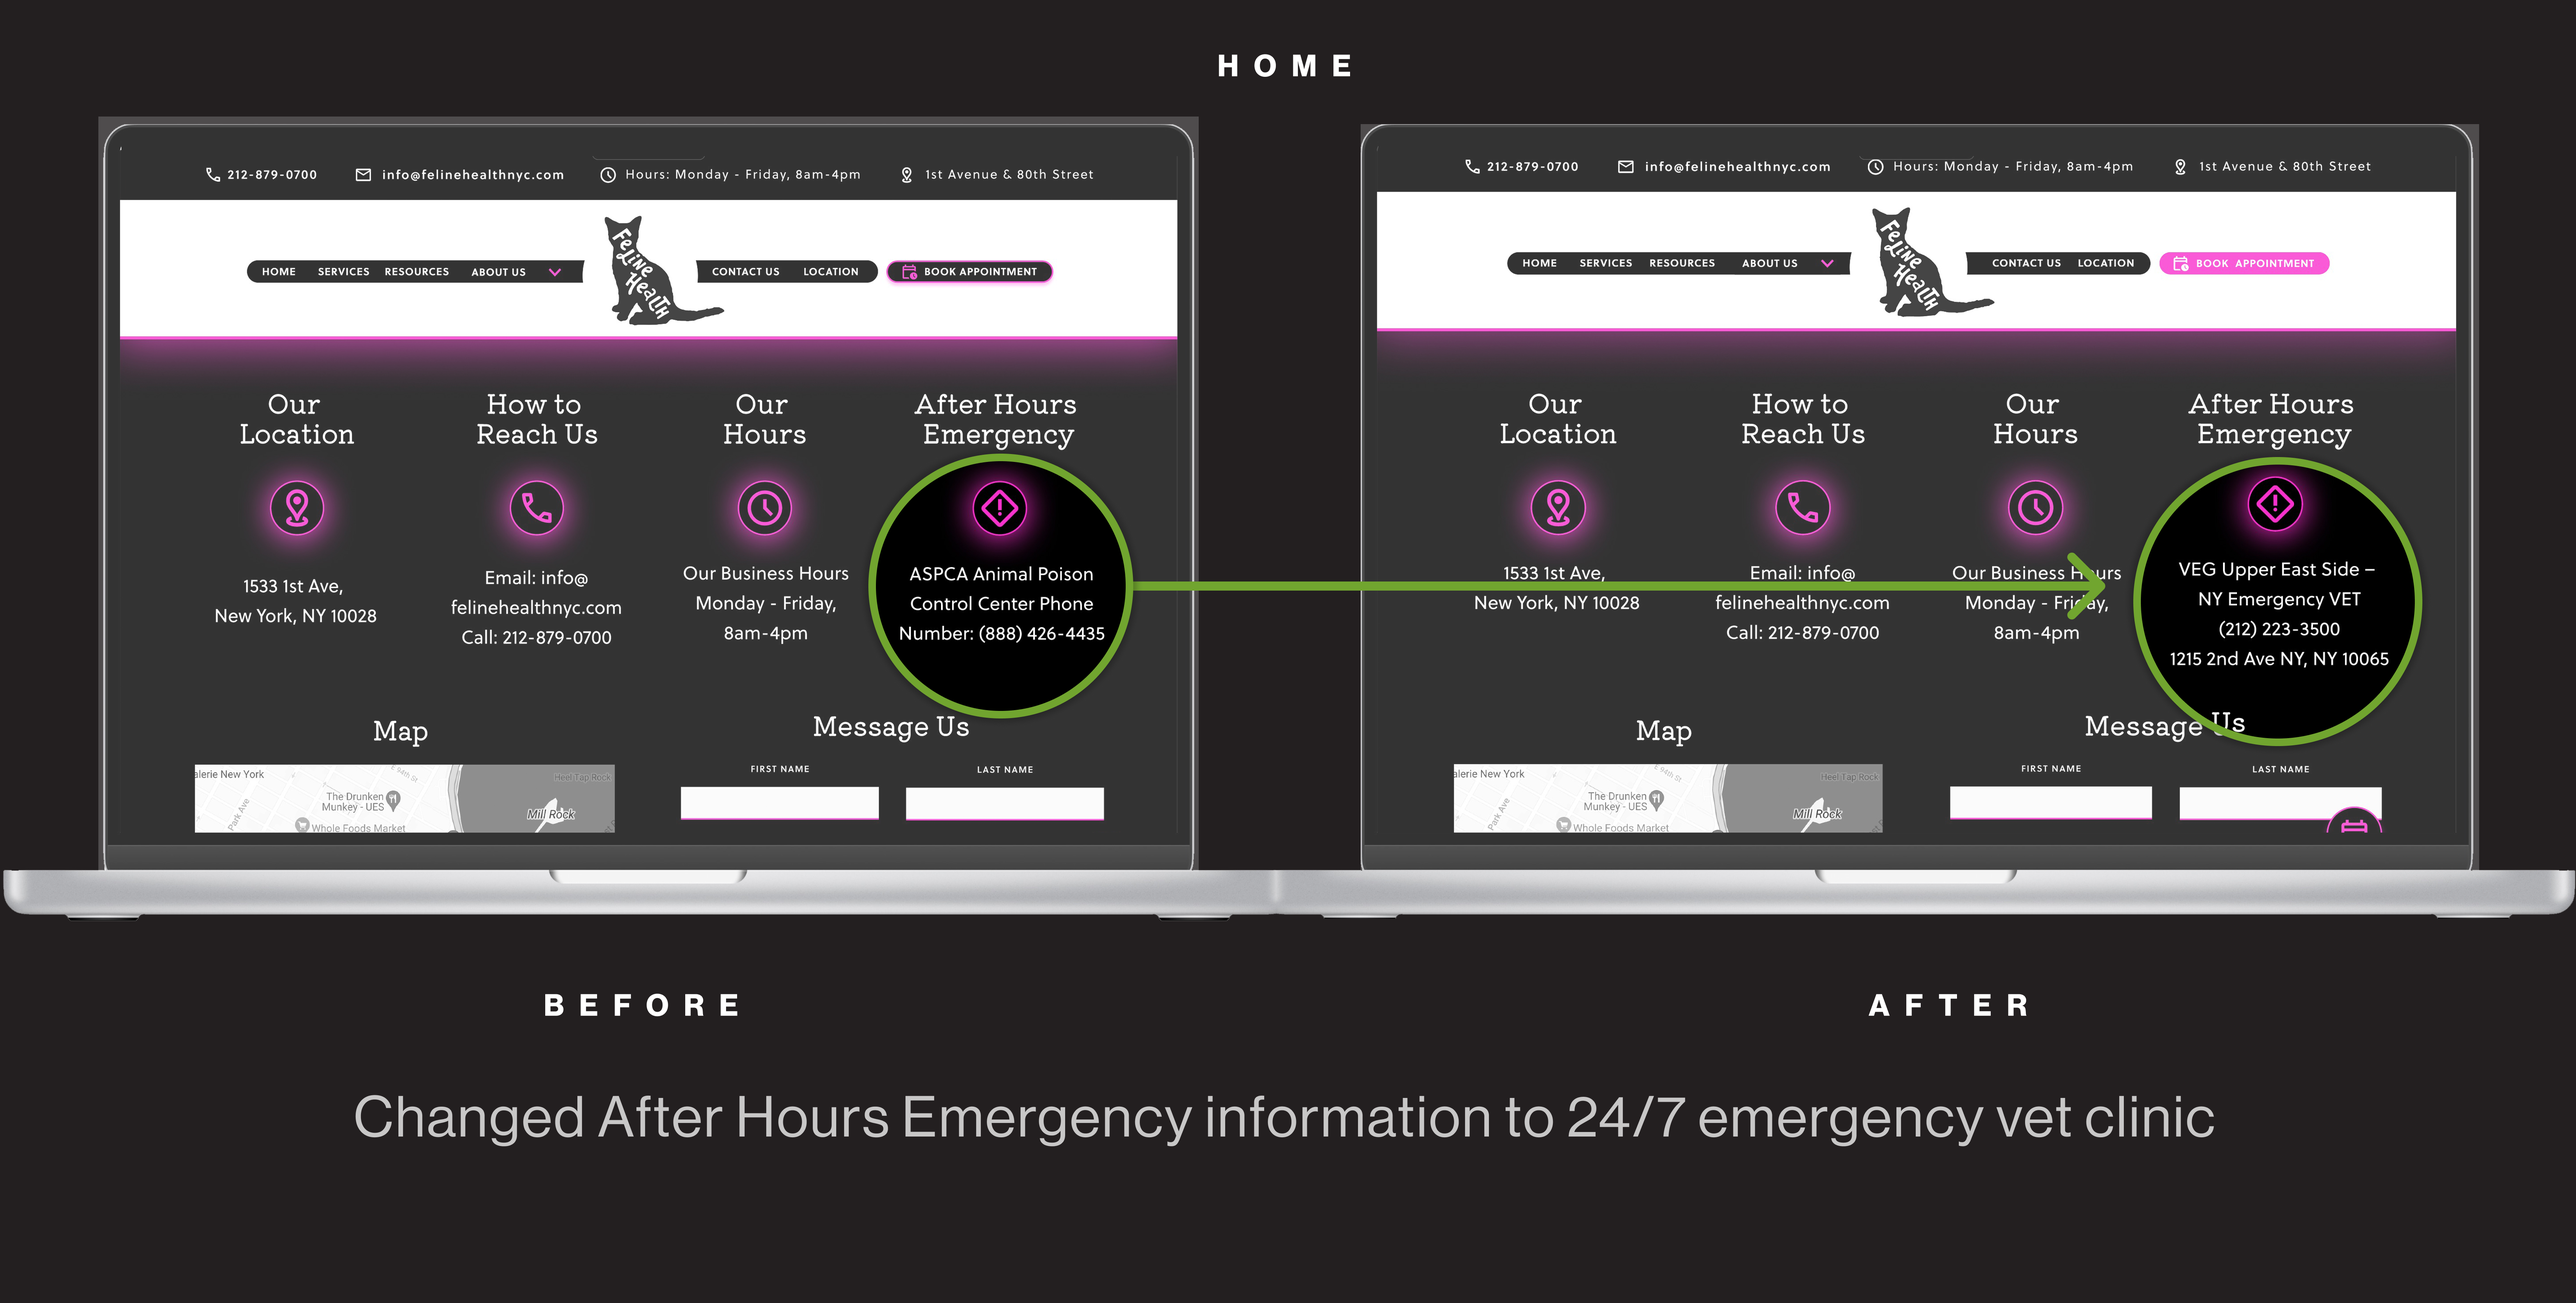
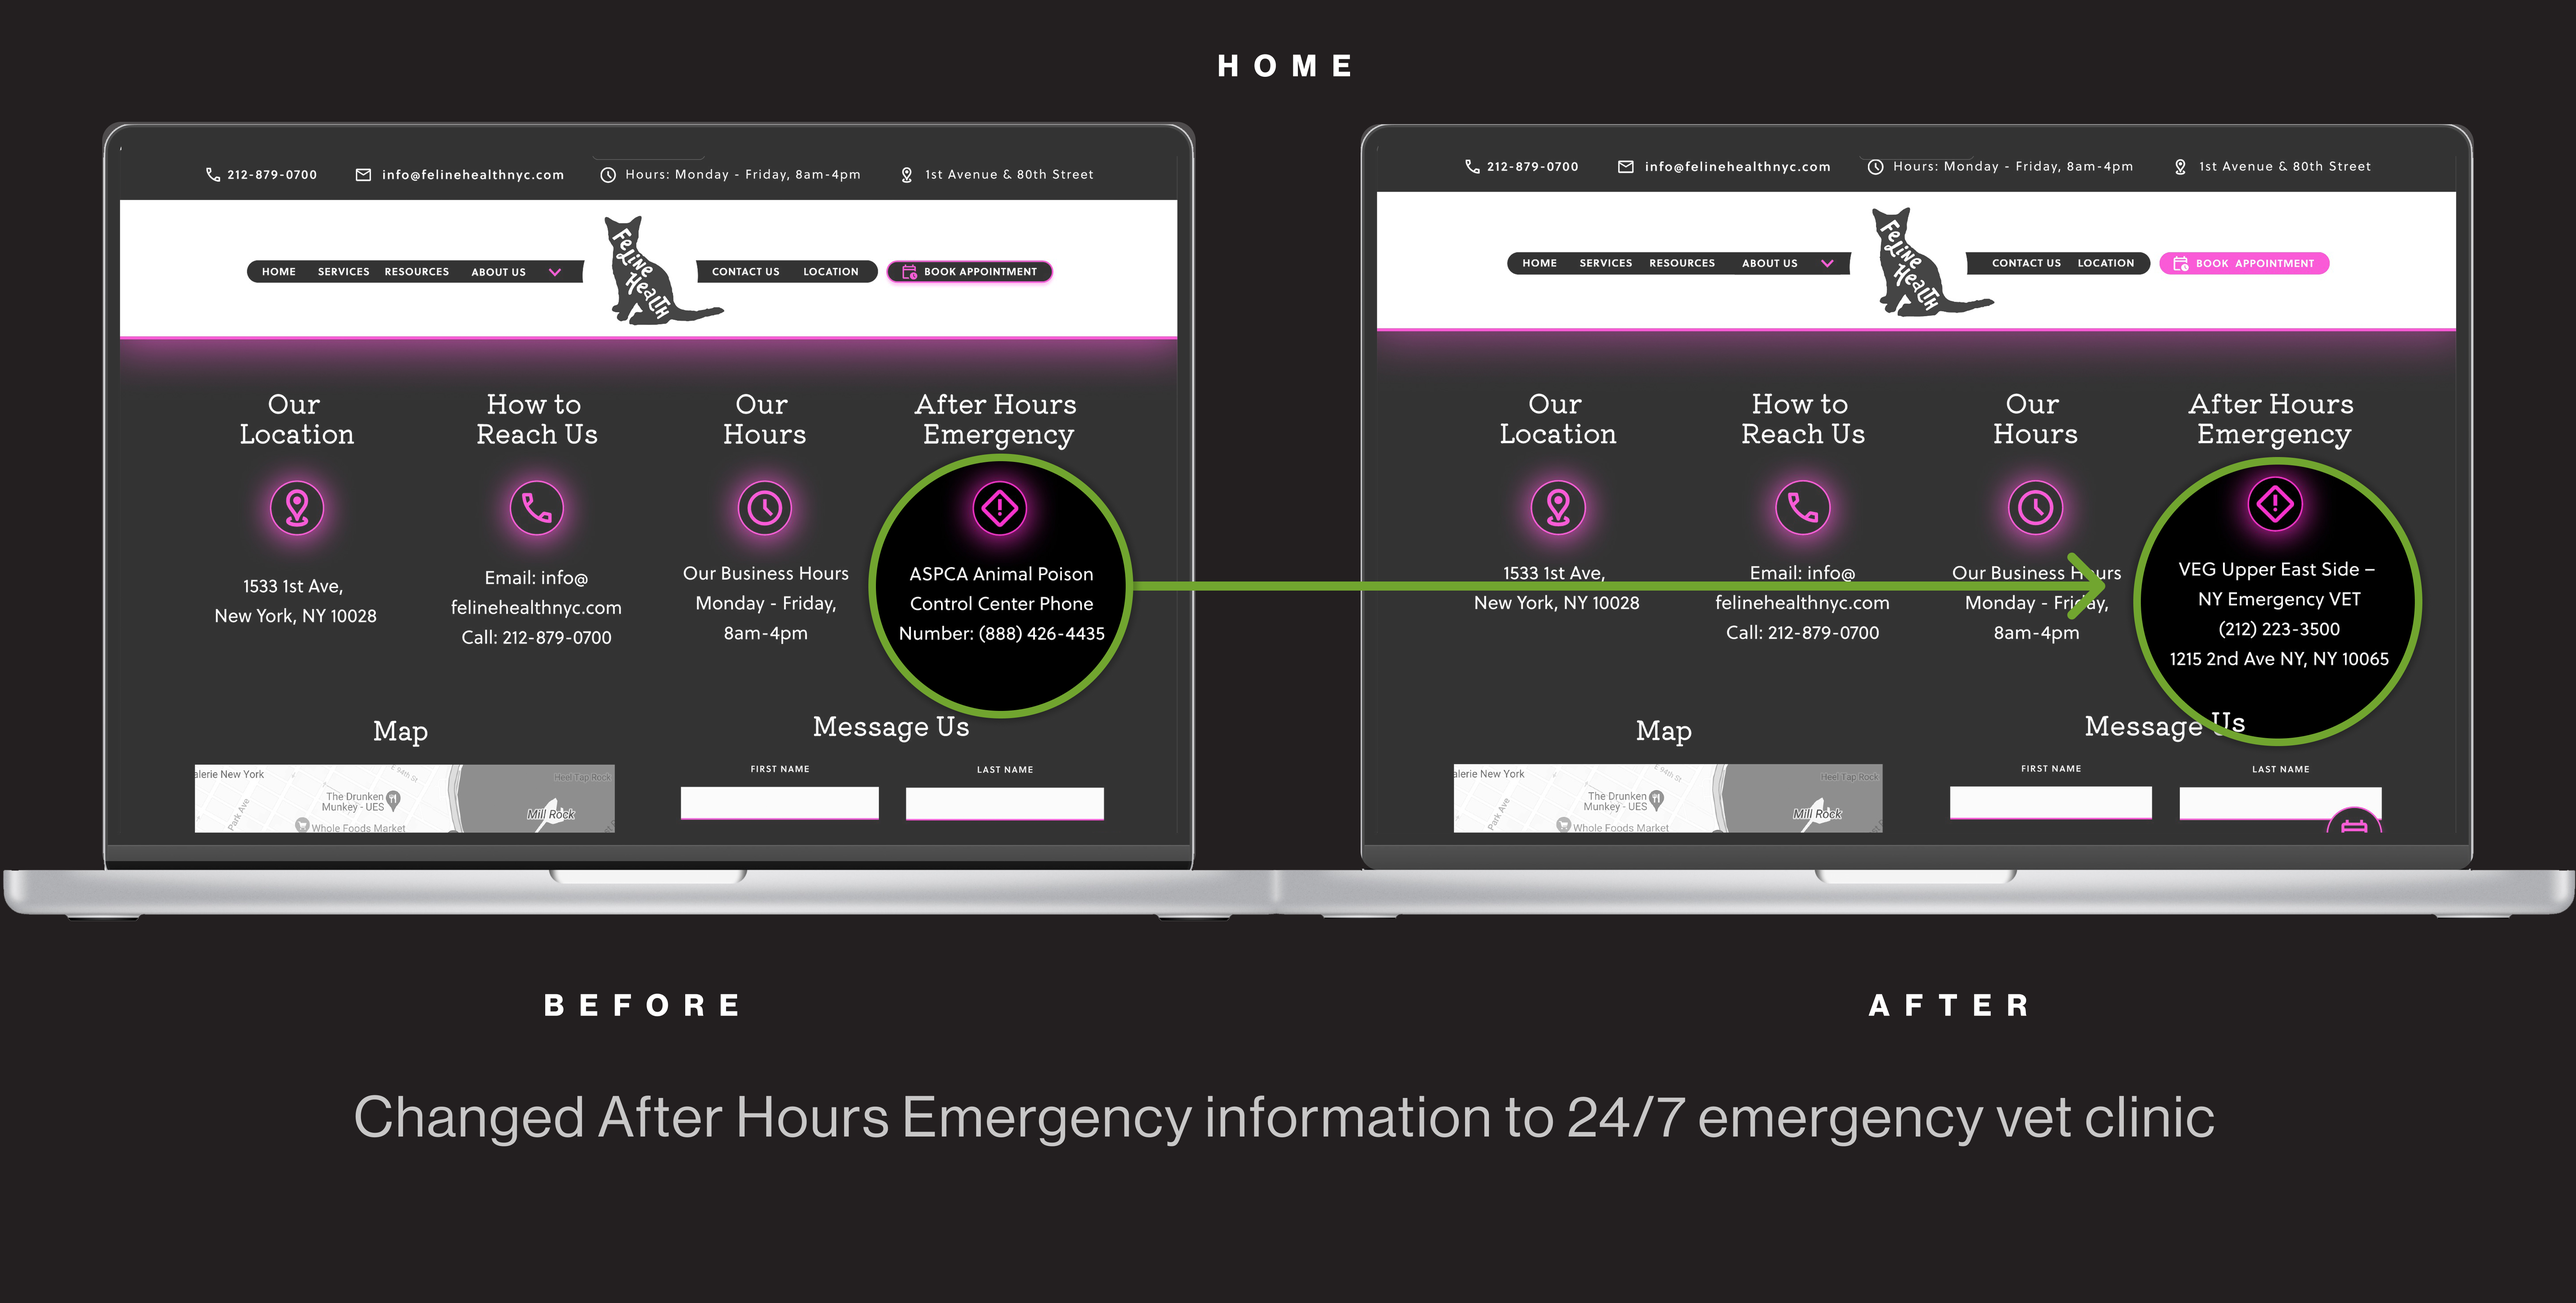
fh desktop done

Changed region(s): [[0.0311, 0.6524, 0.4671, 0.6835], [0.0623, 0.0621, 0.4671, 0.0932]]

diff --git a/src/components/Fh/TestingFh.js b/src/components/Fh/TestingFh.js
@@ -35,16 +35,6 @@ export const TestingFh = () => {
           <div className='ButtonContainer'>
             <div className='Button enlarge'>iterations desktop</div>
           </div>
-          {/* <picture>
-            <source media='(max-width: 479px)' srcSet={desktop_home} />
-            <source media='(min-width: 480px)' srcSet={desktop_homesm} />
-            <img
-              className='competitive fh_desktop'
-              src={desktop_homesm}
-              alt='Affinity map'
-              loading='lazy'
-            />
-          </picture> */}
           <picture>
             <source media='(max-width: 479px)' srcSet={desktop_homebig} />
             <source media='(max-width: 768px)' srcSet={desktop_home} />
@@ -56,16 +46,6 @@ export const TestingFh = () => {
               loading='lazy'
             />
           </picture>
-          {/* <picture>
-            <source media='(max-width: 479px)' srcSet={desktop_hours} />
-            <source media='(min-width: 480px)' srcSet={desktop_hourssm} />
-            <img
-              className='competitive fh_desktop'
-              src={desktop_hourssm}
-              alt='Affinity map'
-              loading='lazy'
-            />
-          </picture> */}
           <picture>
             <source media='(max-width: 479px)' srcSet={desktop_hours_big} />
             <source media='(max-width: 768px)' srcSet={desktop_hours} />
@@ -82,7 +62,7 @@ export const TestingFh = () => {
             <source media='(max-width: 768px)' srcSet={desktop_appt1} />
             <source media='(min-width: 480px)' srcSet={desktop_apptsm} />
             <img
-              className='competitive fh_desktop'
+              className='competitive fh_desktop appt'
               src={desktop_apptsm}
               alt='Affinity map'
               loading='lazy'

diff --git a/src/components/ReusableComponents.css b/src/components/ReusableComponents.css
@@ -138,6 +138,9 @@ li.smHed {
 .ButtonContainer.ideate {
   width: 95rem
 }
+.ButtonContainer.design_fh, .ButtonContainer.design_fh.first{
+  margin-top: 0
+}
 
 
 
@@ -219,8 +222,16 @@ button {
   margin: auto;
   margin-top: -4.8rem;
 }
+.competitive.affinity_fh {
+  margin-bottom: -1rem
+}
 .competitive.fh_desktop{
-  width:95rem
+  width:95rem;
+  margin-top:0rem
+}
+.competitive.fh_desktop.appt{
+  margin-top:-3.5rem;
+  margin-bottom: -4rem;
 }
 
 .competitive.fh{
@@ -228,6 +239,7 @@ button {
     border-radius: 20px;
     margin: auto;
     margin-top: -20.8rem;
+    margin-bottom: -3rem
 }
 .competitive.nyt {
   margin-bottom: 1rem
@@ -419,7 +431,10 @@ ul {
   }
   .competitive.fh_desktop{
   width: 80%;
-  margin-bottom:4rem
+  margin-bottom:1rem
+}
+.competitive.fh_desktop.appt{
+  margin-top:-2rem
 }
   .ButtonContainer.lo_fi {
     margin-top: 0rem;
@@ -493,7 +508,10 @@ ul {
 .competitive.fh_desktop {
     width: 110%;
     margin-left: -2rem;
-    margin-bottom: 4rem;
+    margin-bottom: 1rem;
+}
+.competitive.fh_desktop.appt {
+    margin-top: -2.5rem;
 }
 
   .h5.dropCap {

diff --git a/src/components/ReusableDesign.css b/src/components/ReusableDesign.css
@@ -11,7 +11,7 @@
 
 .competitive.designFh{
   width: 95rem;
-  margin-top: -1.5rem;
+  margin-top: -2.5rem;
   margin-bottom: -8rem
 }
 .competitive.mid_fi {
@@ -41,6 +41,9 @@
   border: 1.25px solid black;
   /* filter:drop-shadow(5px 5px 5px rgba(64, 63, 63, 0.3)) */
 }
+.competitive.flow.fh {
+ margin-bottom: 0
+}
 .competitive.flow.nyt {
   margin-top: -10.5rem;
 }
@@ -55,7 +58,8 @@ li.smHed {
   margin-left:-3rem
 }
   .ButtonContainer.fh_mobile {
-    margin-top: 9rem
+      margin-top: 8rem;
+    margin-bottom: -2rem;
   }
   .h6.small.space {
     margin-top: 1rem

diff --git a/src/components/Fh/ResearchFh.js b/src/components/Fh/ResearchFh.js
@@ -48,7 +48,7 @@ export const ResearchFh = () => {
               <source media='(max-width: 479px)' srcSet={affinity_map_mobile} />
               <source media='(min-width: 480px)' srcSet={affinity_map} />
               <img
-                className='competitive  '
+                className='competitive  affinity_fh'
                 src={affinity_map}
                 alt='Affinity map'
                 loading='lazy'

diff --git a/src/components/Fh/DesignFh.js b/src/components/Fh/DesignFh.js
@@ -44,7 +44,7 @@ export const DesignFh = () => {
           <div className='Button enlarge white fh'>high fidelity desktop</div>
         </div>
         <img
-          className='competitive designFh four'
+          className='competitive designFh'
           src={fh_hi_desktop}
           alt={fh_hi_desktop}
         />
